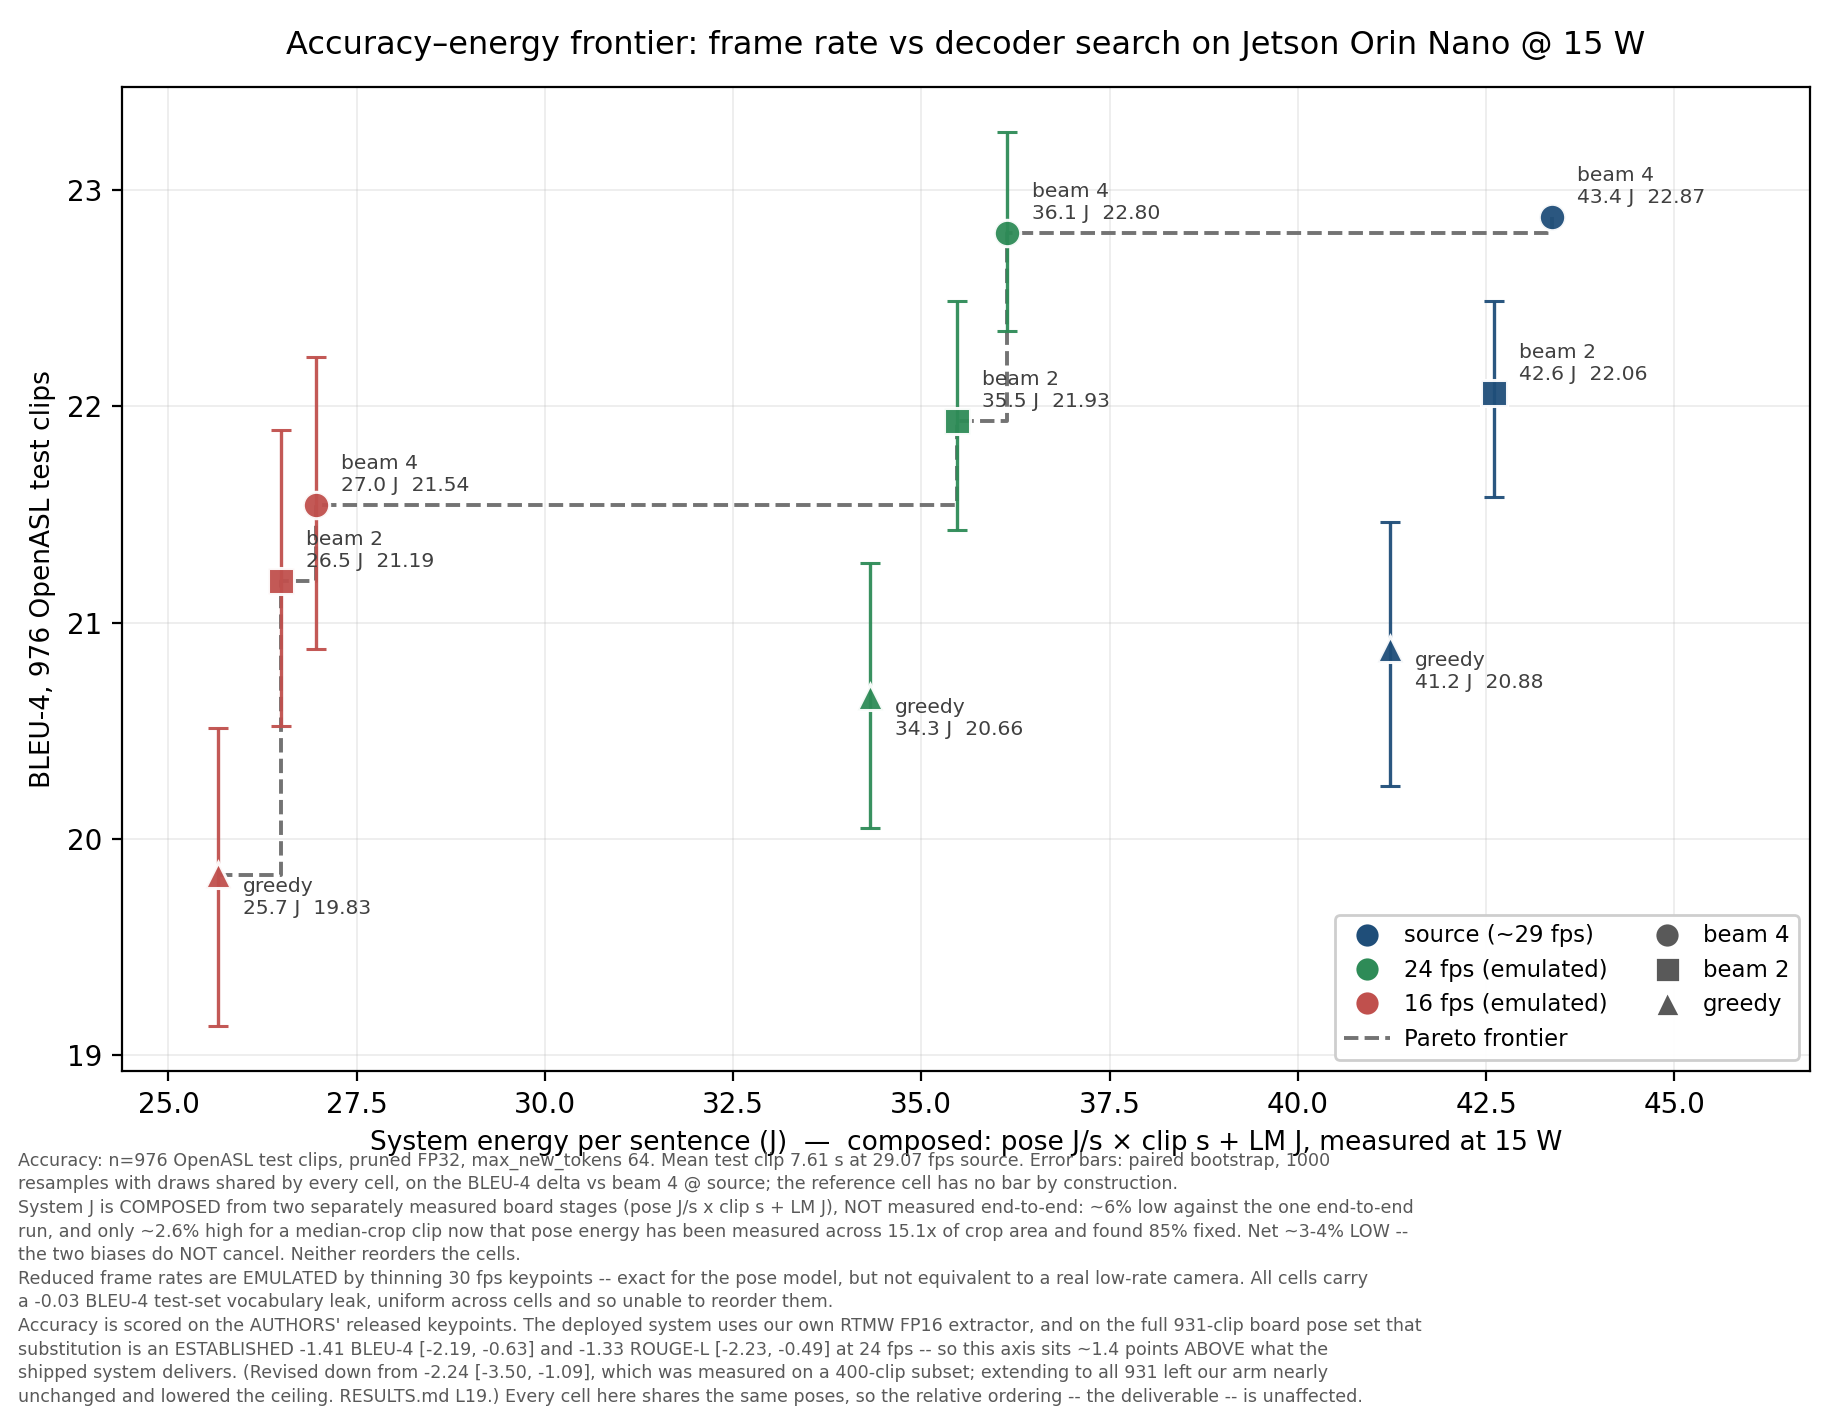
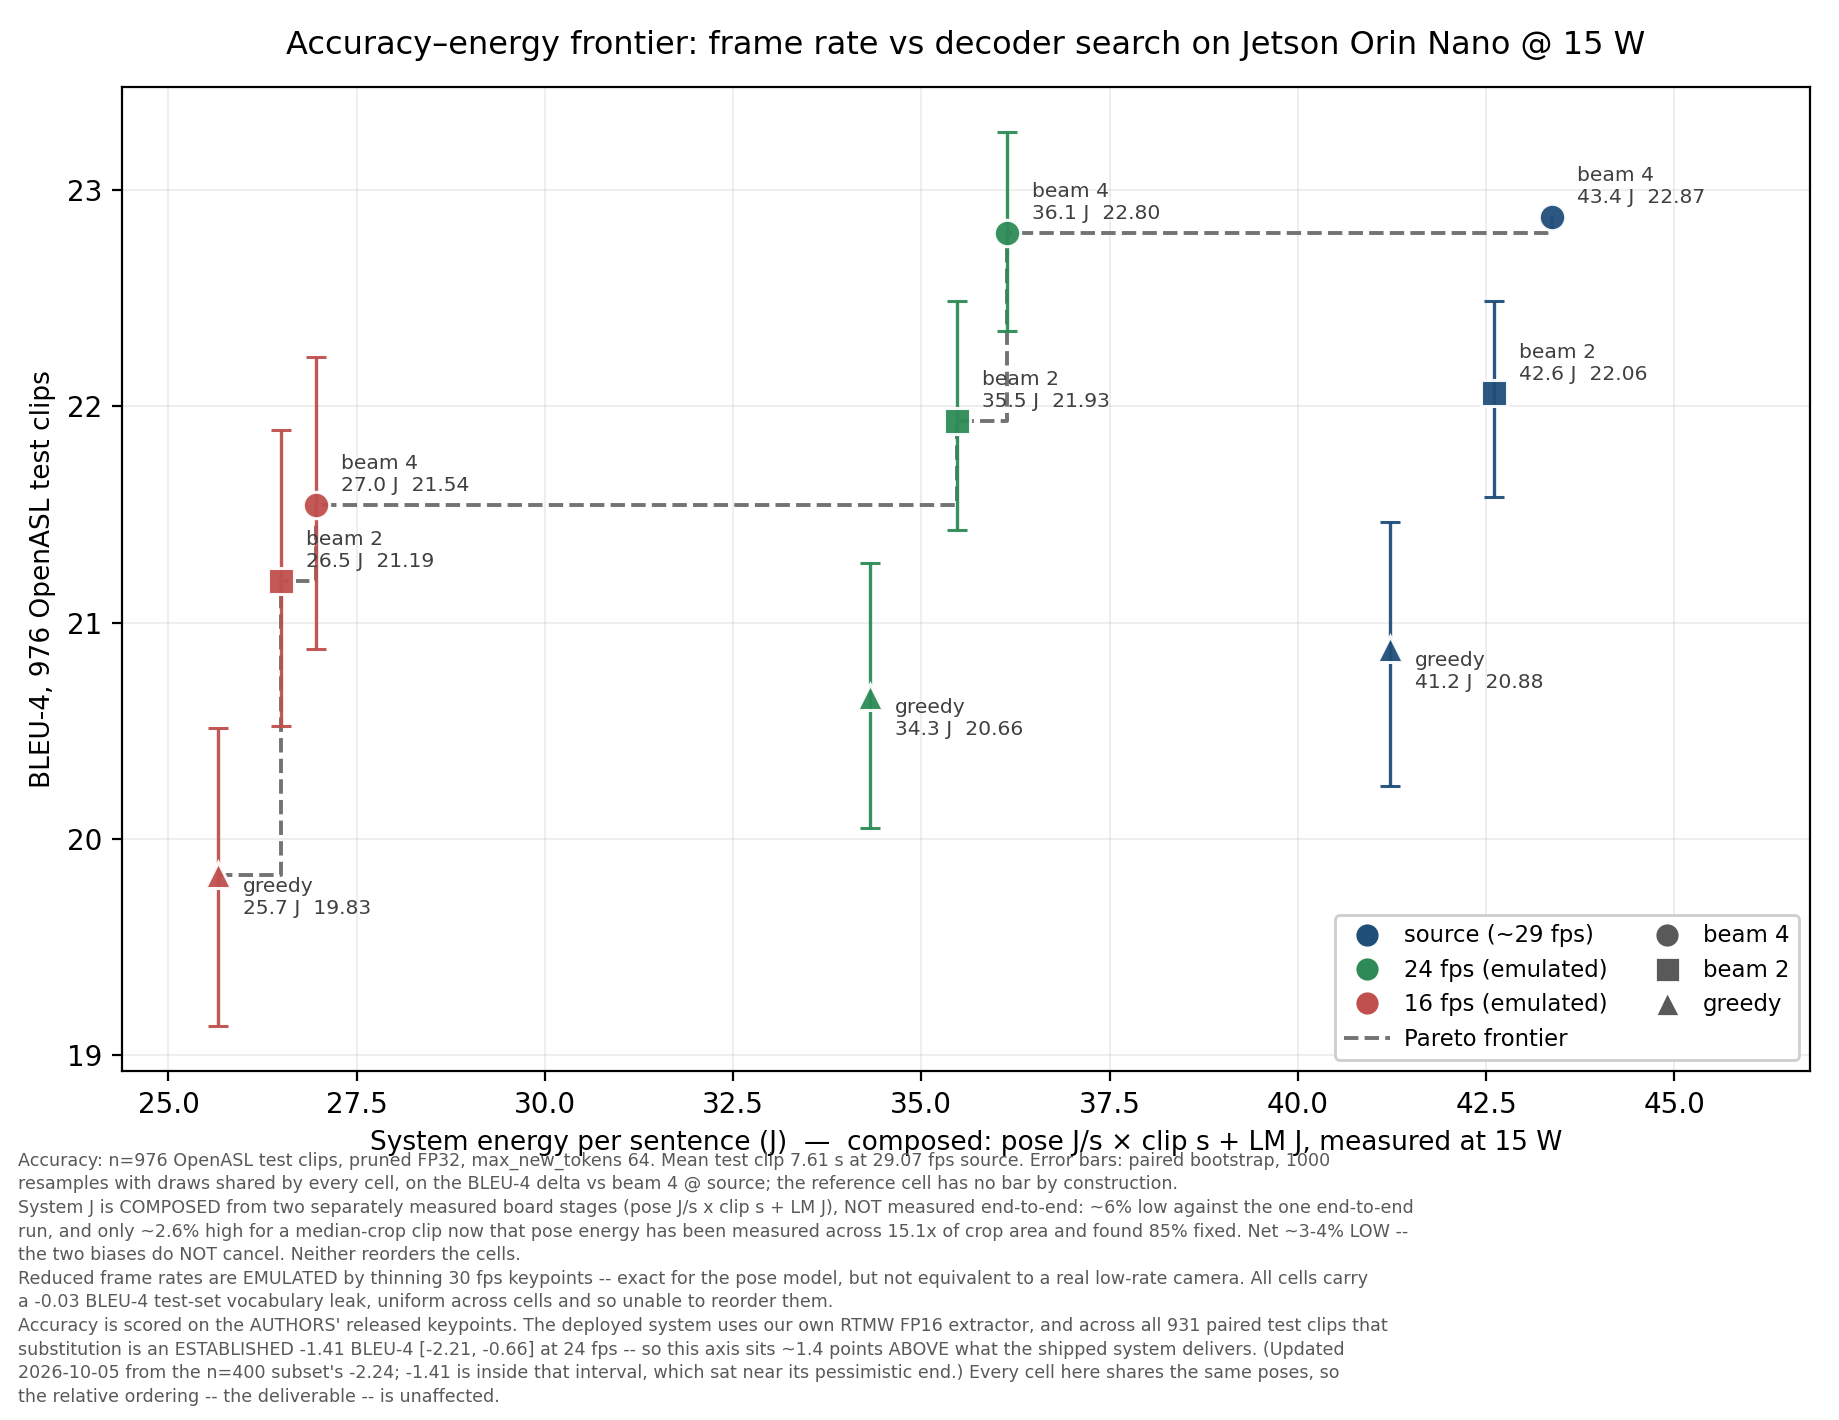
L19 + the n=931 reply: reconcile two CI artifacts, and own the J12 power error
We both computed this gap independently and in parallel. The point estimates
are identical -- 1.4077 BLEU-4, 1.3280 ROUGE-L -- so the measurement is
settled. Two things are not.

ARTIFACT RECONCILIATION. ci_n931_pose_gap.json (theirs, 2.5k) is 1000
resamples; ci_n931_posesub_fps24.json (ours, L19) is 2000. The n=400 artifact
every "narrowed from +-1.205" statement compares against is also 2000, and
comparing widths across n was the entire purpose of the run, so a 1000-draw
width is not directly comparable. Asked that the 2000 one be canonical, or
that theirs be re-run at -n 2000 and ours deleted. L19 now states both
openly rather than silently carrying a third number.

THE J12 POWER ARGUMENT FAILED, AND IT WAS OURS. L17 justified J12 on J9's
expected recovery becoming detectable. Measured: +0.87 against +-1.205 (ratio
0.73) at n=400 becomes +0.55 against +-0.778 (ratio 0.71) at n=931. The
interval narrowed 35%, almost exactly sqrt(400/931); the gap shrank 37%. The
error, named as reusable: the power calculation scaled the denominator while
holding the numerator at a small-sample point estimate whose own interval,
[-3.50, -1.09], said it was not yet well determined.

J12 is not wasted -- it established ROUGE-L on this axis for the first time
and replaced a point estimate near the pessimistic end of its interval -- but
nothing downstream should claim it made J9's predicted effect resolvable.

Conflict resolution: took their text for frontier.py, plot_frontier.py,
[…]

Changed region(s): [[0.0, 0.9296, 0.7749, 0.9915]]

diff --git a/REPLY-N931-2026-10-05.md b/REPLY-N931-2026-10-05.md
@@ -1,0 +1,57 @@
+# Two corrections on the n=931 gap, and the consequence J12 was run for
+
+*LM track → pose track, 2026-10-05. We both computed this independently and in parallel; the point
+estimates agree exactly. These are the two places they do not.*
+
+---
+
+## 1. The 1000-resample CI is not comparable with the thing it is being compared to
+
+Both artifacts give **1.4077 BLEU-4 / 1.3280 ROUGE-L**, so the measurement is settled. The intervals
+differ only in resample count:
+
+| artifact | resamples | BLEU-4 interval |
+|---|---:|---|
+| `results/ci_n931_pose_gap.json` (§2.5k) | **1000** | [−2.21, −0.66] |
+| `results/ci_n931_posesub_fps24.json` (§L19) | **2000** | [−2.19, −0.63] |
+
+**`ci_n400_posesub_fps24_lm.json` is 2000 resamples.** Every statement of the form *"the interval
+narrowed from ±1.205 to ±0.78"* compares an n=931 width against that n=400 width, and the entire
+purpose of the n=931 run was to compare widths across n. A width computed at 1000 draws is not
+directly comparable with one computed at 2000.
+
+**Ask: make the 2000-resample artifact canonical**, and have §2.5k cite [−2.19, −0.63] /
+[−2.23, −0.49]. We are not attached to the file name; if you would rather keep yours, re-run it at
+`-n 2000` and we will delete ours.
+
+## 2. J12 did not deliver the detectability it was run for — and that was our argument, not yours
+
+Your Q9 flagged this before the CI existed. With the interval measured, it holds:
+
+| | expected recovery (39 % of gap) | half-width | ratio | |
+|---|---:|---:|---:|---|
+| n=400 | +0.87 | ±1.205 | 0.73 | does not clear |
+| **n=931** | **+0.55** | **±0.778** | **0.71** | **still does not clear** |
+
+The interval narrowed 35 %, almost exactly the `sqrt(400/931)` prediction. The gap shrank 37 %. So
+**detectability went from 0.73 to 0.71 — marginally worse.**
+
+The error was ours and it is worth naming precisely, because it is a reusable one: **§L17's power
+calculation scaled the denominator while holding the numerator at a small-sample point estimate.**
+−2.24 was itself an estimate on 400 clips, and its interval, [−3.50, −1.09], was wide enough to say
+it was not yet well determined. Treating it as fixed overstated what more data would buy.
+
+**This does not make J12 wasted.** It established ROUGE-L on this axis for the first time, it replaced
+a point estimate sitting near the pessimistic end of its interval, and the alternative was planning J9
+against a gap 37 % larger than the real one. But **nothing downstream should say J12 made J9's
+predicted effect resolvable.** It did not.
+
+## 3. What this changes for J9, and what it does not
+
+A recovery of the size §L17 predicts would still return *not established* at n=931. That is not an
+argument against running J9 — the 39 % comes from the frame-rate axis and §L17 already records that
+its transfer to the pose-source axis is unestablished, so the true effect could be larger or smaller.
+It is an argument against **expecting** the n=931 test set to resolve a recovery of that size, and
+against writing the J9 plan as though it will.
+
+Worth agreeing before step 2 runs, on the same basis as the earlier null-framing agreement.

diff --git a/results/RESULTS.md b/results/RESULTS.md
@@ -3120,9 +3120,23 @@ files.
 ### L19 The pose gap at full width (n=931): it nearly halves, and J12 did not buy the power it was run for (2026-10-05)
 
 J12 extended the board pose set from 400 to all 931 fetched test clips so the pose-substitution gap
-could be measured at full width. `unisign/bootstrap_ci.py`, 2000 resamples, paired by clip name
+could be measured at full width. `unisign/bootstrap_ci.py`, **2000** resamples, paired by clip name
 against `eval_test976_ceil_b4_fps24_named.json` (976 ∩ 931 = **931**, 45 dropped, 0 reference
 mismatches). Artifact: `results/ci_n931_posesub_fps24.json`.
+
+> **Two artifacts exist for this one quantity, computed independently and in parallel by the two
+> tracks.** The point estimates are **identical** — 1.4077 BLEU-4 and 1.3280 ROUGE-L — so the
+> measurement is not in question; only the resample count and the sign convention differ.
+>
+> | | resamples | BLEU-4 interval |
+> |---|---:|---|
+> | `ci_n931_pose_gap.json` (pose track, §2.5k) | 1000 | [−2.21, −0.66] |
+> | `ci_n931_posesub_fps24.json` (this section) | **2000** | **[−2.19, −0.63]** |
+>
+> **The 2000-resample one should be canonical**, because `ci_n400_posesub_fps24_lm.json` — the
+> artifact every "the interval narrowed from ±1.205" statement compares against — is also 2000. An
+> interval width computed at 1000 draws is not directly comparable with one at 2000, and the whole
+> point of the n=931 run was to compare widths across n.
 
 | | n=400 (§2.5h) | **n=931** |
 |---|---|---|
